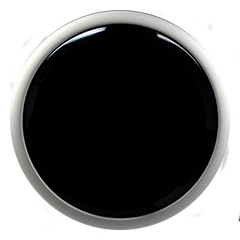
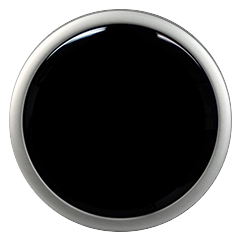
use trans background

diff --git a/gauge.py b/gauge.py
@@ -84,7 +84,7 @@ def game():
         def __init__(self,name,unit,startpos=screen.get_rect().center):
             Gauge.__init__(self,name,unit,startpos)
             try:
-                self.background = pygame.image.load(os.path.join("data","C1_240x240.png"))
+                self.background = pygame.image.load(os.path.join("data","C1_trans240x240.png"))
             except:
                 raise(UserWarning, "no image files 'babytux.png' and 'frame_S1.jpg' in subfolder 'data'")
  
